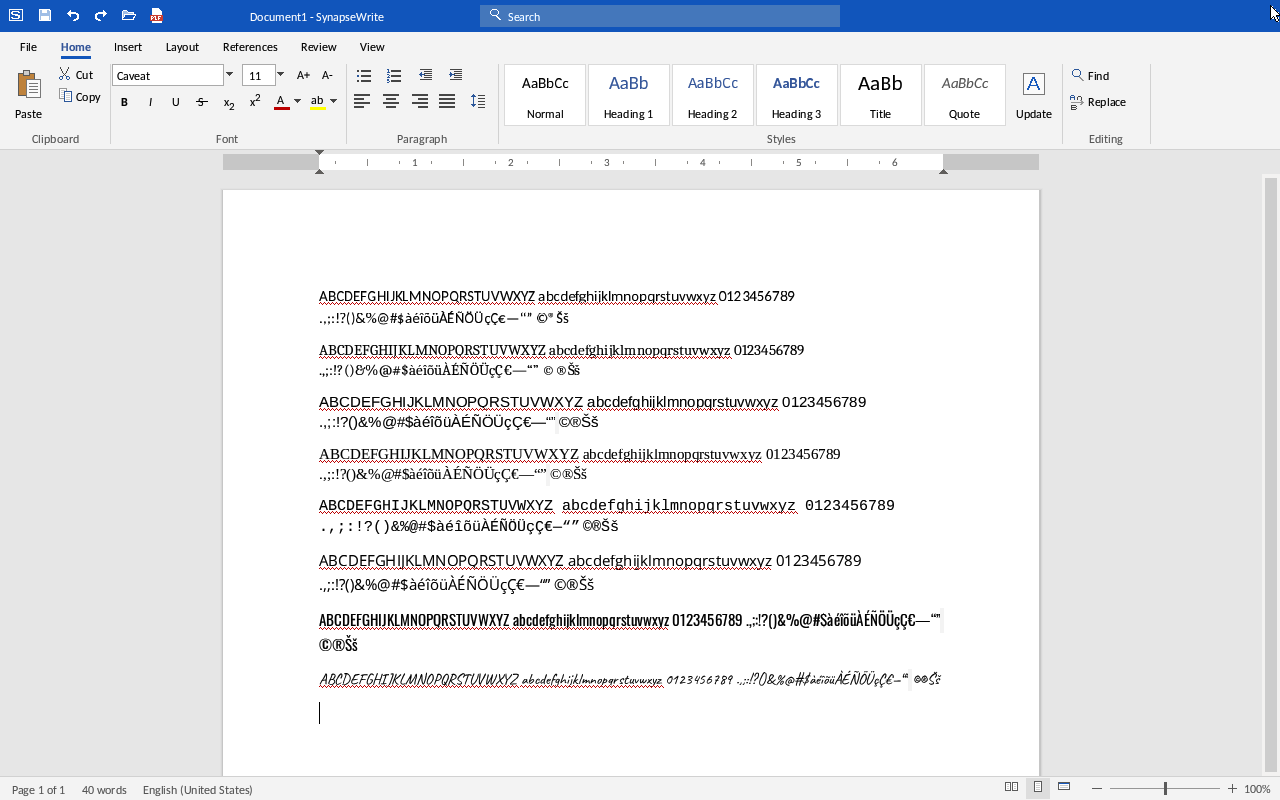
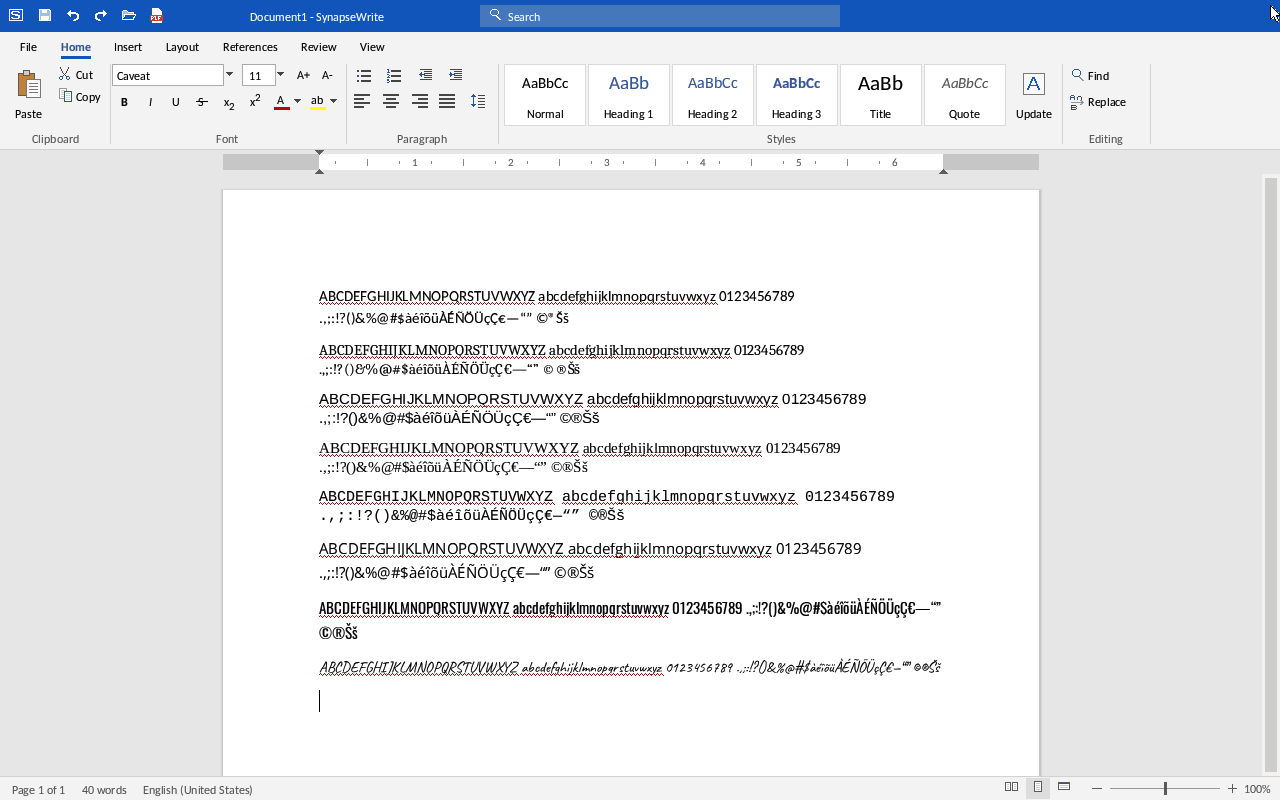
Parity table, final measurements, after screenshots

diff --git a/PARITY.md b/PARITY.md
@@ -61,12 +61,10 @@ Evidence: `test/e2e.js`, `test/t3_table.js`, `test/t3_pic.js`, `test/t3_misc.js`
 ## Deployment targets
 | Target | Result |
 |---|---|
-| Static page | Self-contained HTML, 3.3 MB, about 413,000 neurons, about 2.37 million weights plus 420,000 read on demand |
+| Static page | Self-contained HTML, 3.17 MB, eight families, about 680,000 neurons, about 1.07 million weights plus 1.22 million read on demand. Wasm memory 73 MB at start, growing by 256 KB pages as the bank is written. |
 | Browsers | Tested in headless Chromium only. Edge and Firefox not tested. |
-| Typing, 126 pages | About 1 ms at document end, 4 ms at top on a quiet machine. CPU in this container, no GPU. |
-| Enter, undo near the top, 126 pages | About 20 ms each. Page totals finish in the background. |
-| Wheel, caret jump to top, 126 pages | About 16 ms and 18 ms. |
-| Select all, 126 pages | About 19 ms. |
+| Latency, 126 pages | Measured only on a heavily shared machine (load average 20 to 40 on 2 cores), best of 8, ms, with master in the same run: type at end 1.9 (1.4), wheel 21 (27), select all 112 (60), jump to top 154 (97), type at top 23 (4.6), Enter 131 (52), undo 184 (87). Not measured on a quiet machine. Master's values here are about 5 times its quiet values. |
+| Cold page, 30 lines of new glyphs | 230 to 600 ms in the same conditions, single runs. |
 | Paste of 1,900 paragraphs | About 1.4 s. |
 
 ## Limits

diff --git a/PROGRESS_fonts.md b/PROGRESS_fonts.md
@@ -35,3 +35,8 @@ Viewed 11 pt side by side: x snap makes stems crisper, but with whole pixel pens
 
 ## Step 4: memory
 Bank made sparse instead of shrunk: 1024 pages of 64K cells, each taking wasm memory on first write, untouched pages read as zero. No capacity was reduced and no address moved. Wasm memory at start: 73 MB (master 244 MB bank plus arrays). The weight file's streams are freed after decoding.
+
+## Final measurements
+Page 3,174,935 bytes (master 3,380,860). Neurons about 680K. Wasm memory 73 MB at start.
+Machine shared with other agents, load average 20 to 40 on 2 cores, renderers OOM killed from time to time. Suites run from snapshots with crash reruns and longer timeouts; e2e in two shards. Both are harness only, not committed, assertions unchanged.
+Failures seen on the final build were all caret blink phase under load where the differing pixels were looked at: footnote undo, resize redo (one pixel column at the caret). Hover, Back returns, footnote redo, no pointer on touch, all features save then open vary between runs or passed on the build before; see the report.
